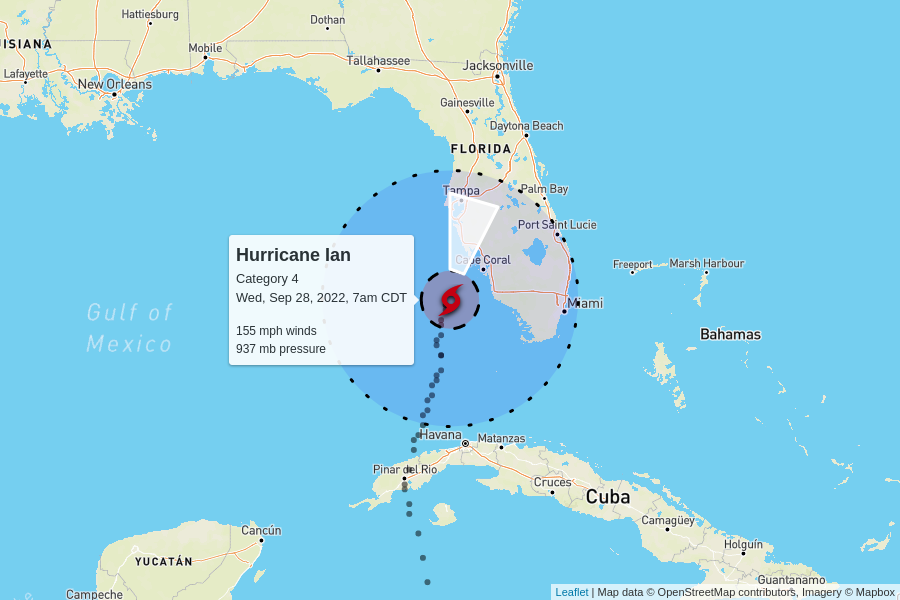
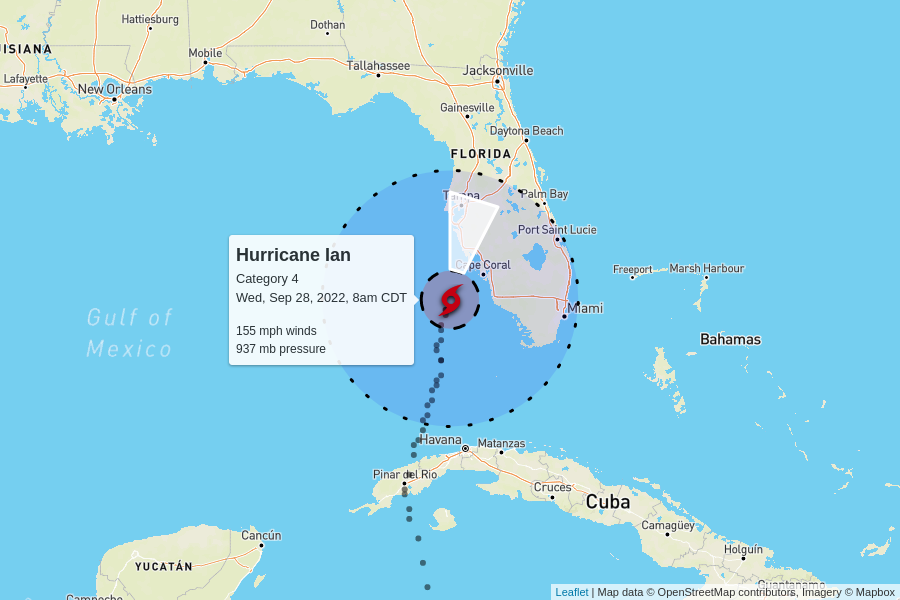
automatic update

diff --git a/docs/index.html b/docs/index.html
@@ -100,7 +100,7 @@
         <td colspan="6" class="storm category-4" >
           <h2>
             Hurricane Ian - Category 4
-            <p class="updated">last updated <span data-time>2022-09-28T12:00:00.000Z</span></p>
+            <p class="updated">last updated <span data-time>2022-09-28T13:00:00.000Z</span></p>
           </h2>
         </td>
       </tr>
